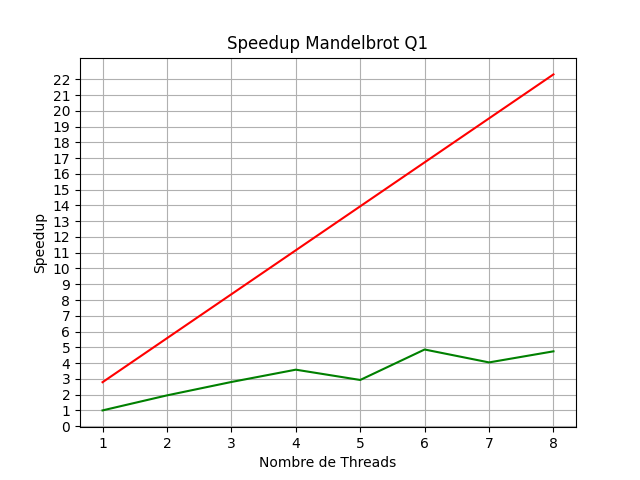
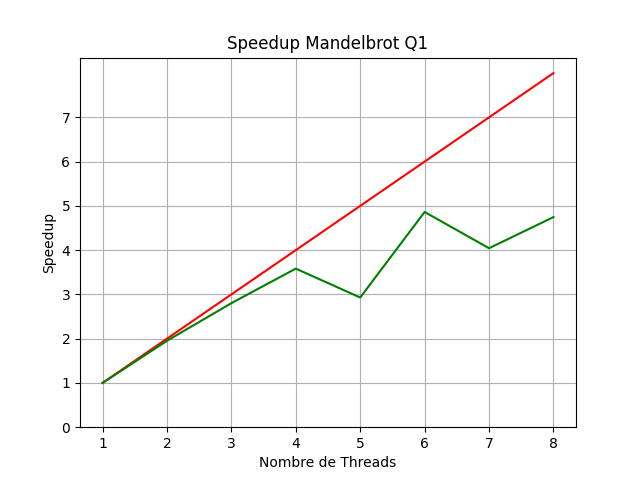
Ajout et correction de graphiques

Changed region(s): [[0.0312, 0.1562, 0.9062, 0.9062]]

diff --git a/travaux_diriges/tp2/graph.py b/travaux_diriges/tp2/graph.py
@@ -1,4 +1,5 @@
 import matplotlib.pyplot as plt
+import numpy as np
 
 x=[0 for i in range(8)]
 x[0]=2.7888474464416504
@@ -11,10 +12,16 @@ x[6]=0.6897034645080566
 x[7]=0.5875773429870605
 
 speedup=[x[0]/x[i] for i in range(8)]
-asymptote=[x[0]*(i+1) for i in range(8)]
+asymptote=[i+1 for i in range(8)]
 nbThreads=[i+1 for i in range(8)]
 
 plt.plot(nbThreads,asymptote,color='red')
 plt.plot(nbThreads,speedup,color='green')
+plt.title("Speedup Mandelbrot Q1")
+plt.xlabel("Nombre de Threads")
+plt.ylabel("Speedup")
+plt.xticks(np.arange(1,9,1))
+plt.yticks(np.arange(0,asymptote[7],1))
+plt.grid()
 plt.savefig("images/Mandelbrot_Q1.png")
 plt.show()
